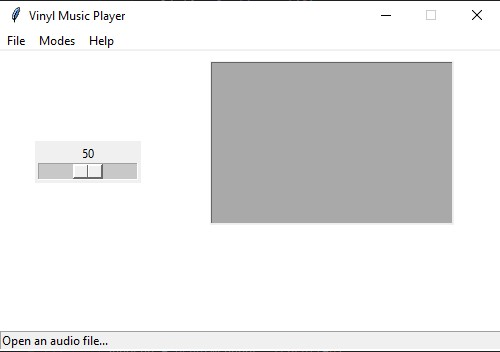
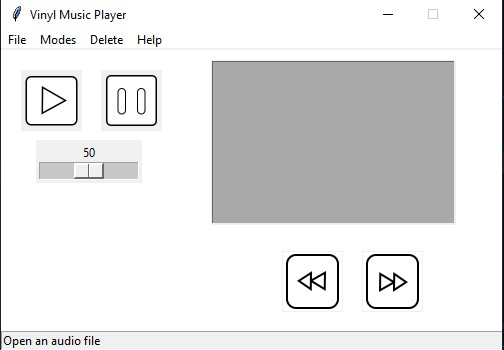
Add auto open functionality

diff --git a/Vinyl.py b/Vinyl.py
@@ -67,6 +67,22 @@ def delete_all():
     status(status_="Deleted all \t\t\t\t\t\t\t\t\t\t\t\t")
 
 
+def open_last_inst():
+    try:
+        pope = open("DUMP.txt", "r")
+        rope = pope.readlines()
+        var = rope[-1]
+        list_dir_os = os.listdir(var)
+        for item in list_dir_os:
+            list1.insert(END, var + "/" + item)
+        if str(list_dir_os[any(list_dir_os)]).endswith('.mp3'):
+            pygame.mixer.init()
+            list1.selection_set(END)
+            status(status_="Opened a Music directory \t\t\t\t\t\t\t\t\t\t\t\t")
+    except FileNotFoundError or IndexError:
+        pass
+
+
 def open_():
     try:
         global w, img, rp
@@ -126,6 +142,8 @@ def open_fol():
         global k
         global ll, pp
         w = filedialog.askdirectory()
+        pope = open("DUMP.txt", "w")
+        pope.write(w)
         list_dir_os = os.listdir(w)
         for item in list_dir_os:
             list1.insert(END, w + "/" + item)
@@ -273,4 +291,5 @@ Button(win, image=p, borderwidth=0, command=prev_).place(x=280, y=200)
 list1 = Listbox(win, bg="dark grey", fg="black", width=40)
 list1.place(x=210, y=10)
 
+open_last_inst()
 win.mainloop()
